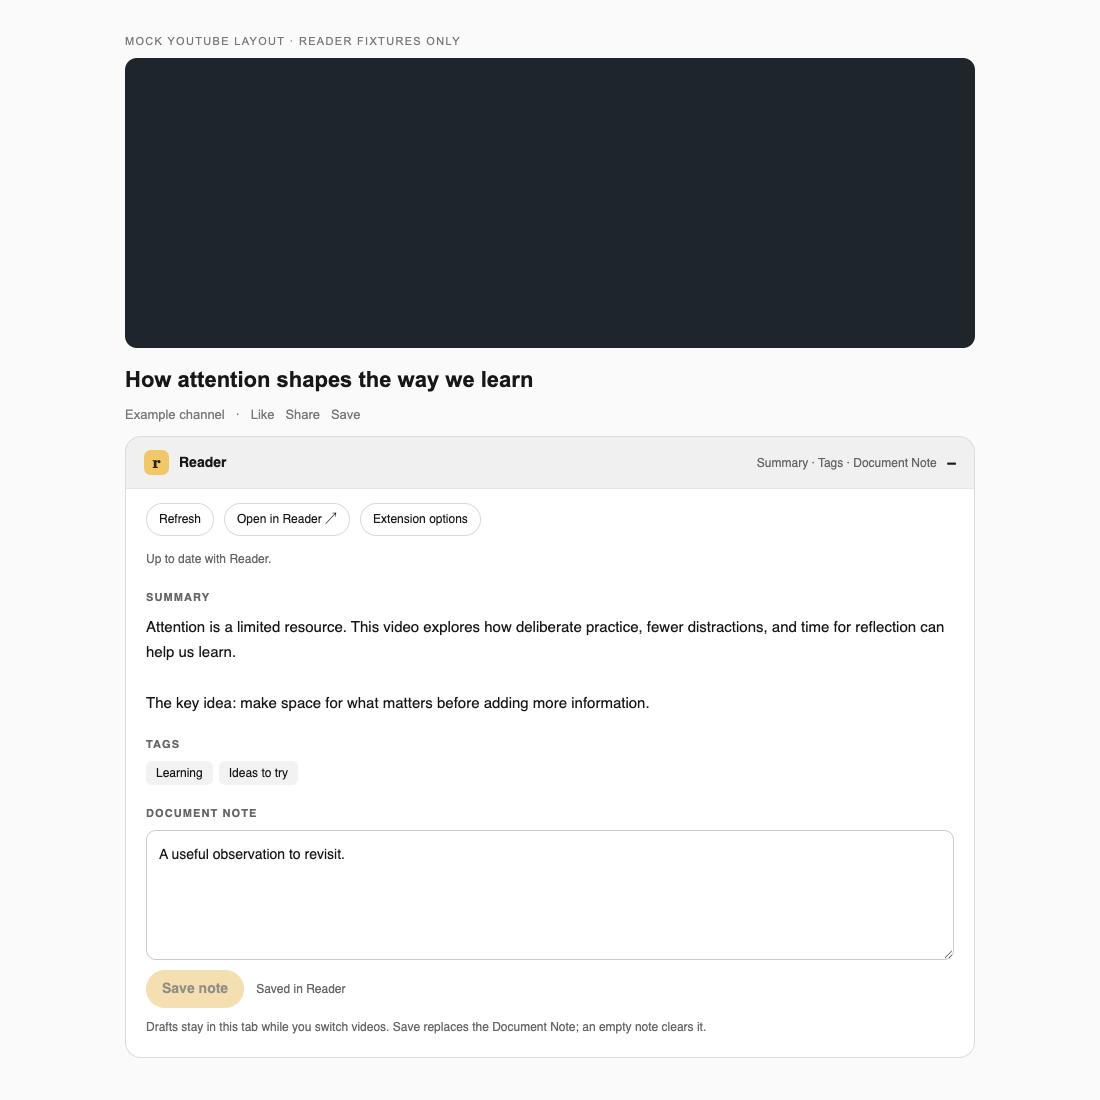
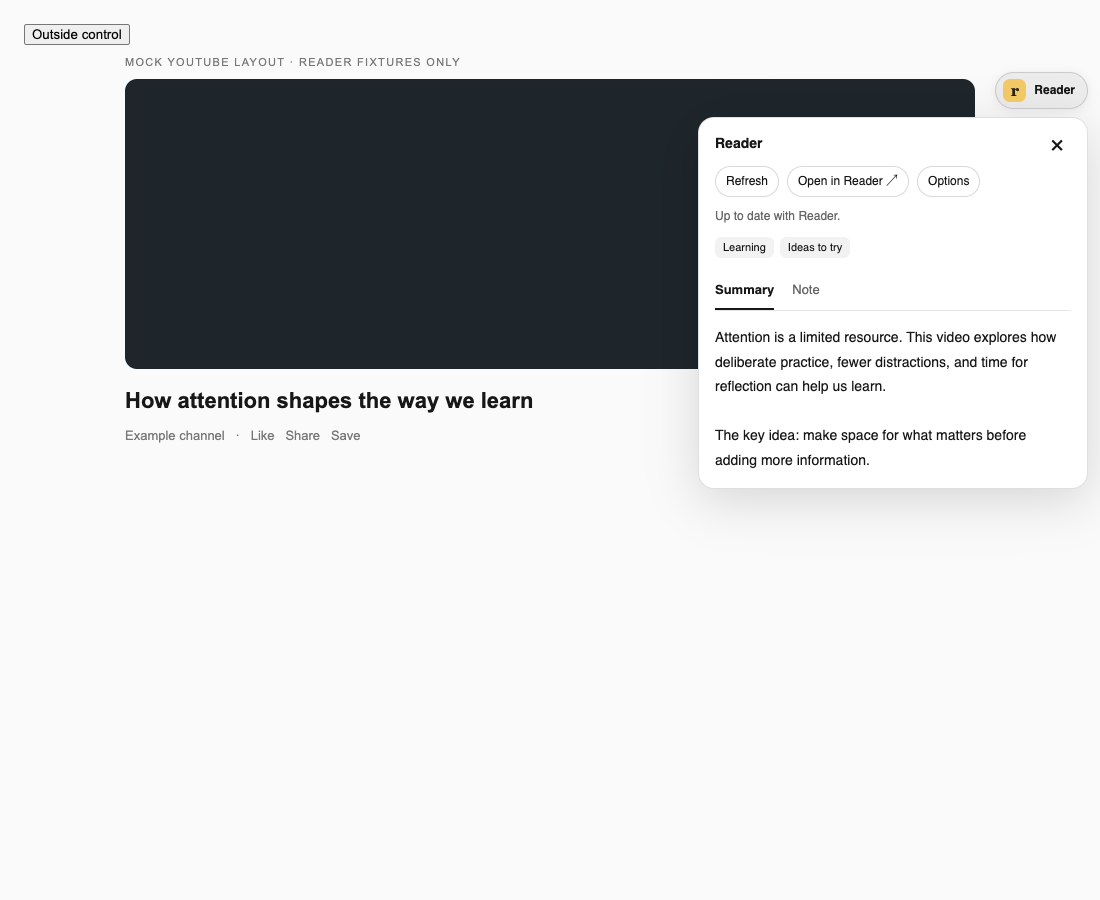
Show Reader in a compact top-right popover

diff --git a/reader-panel.js b/reader-panel.js
@@ -10,7 +10,7 @@
   let open = false;
   let scheduled = false;
   const stateFor = (url) => {
-    if (!states.has(url)) states.set(url, { ...C.draft(), status: '', cursor: null, loaded: false });
+    if (!states.has(url)) states.set(url, { ...C.draft(), status: '', cursor: null, loaded: false, tab: 'summary' });
     return states.get(url);
   };
   const current = () => activeUrl && stateFor(activeUrl);
@@ -43,67 +43,91 @@
     if (parent) parent.append(node);
     return node;
   };
+  const dismiss = (restoreFocus = false) => {
+    open = false;
+    render();
+    if (restoreFocus && host?.isConnected) view.toggle.focus();
+  };
+  const selectTab = (tab, focus = false) => {
+    const s = current();
+    if (!s) return;
+    s.tab = tab;
+    render();
+    if (focus) (tab === 'summary' ? view.summaryTab : view.noteTab).focus();
+  };
   const createView = () => {
     host = document.createElement('div');
     host.id = 'mvs-reader-panel';
     root = host.attachShadow({ mode: 'closed' });
     const style = element('style', '', root);
     style.textContent = `
-      :host{display:block;margin:14px 0;color:var(--yt-spec-text-primary,#171717);font:14px/1.55 "YouTube Sans",Roboto,sans-serif;color-scheme:light dark}
-      *{box-sizing:border-box} [hidden]{display:none!important}
-      button,a,textarea{font:inherit}button,a{color:inherit}button{cursor:pointer}
-      .shell{border:1px solid var(--yt-spec-10-percent-layer,rgba(128,128,128,.28));border-radius:16px;overflow:hidden;background:var(--yt-spec-base-background,#fff)}
-      .toggle{border:0;background:transparent;display:flex;align-items:center;gap:10px;width:100%;padding:13px 18px;text-align:left;font-weight:600}
-      .mark{display:grid;place-items:center;width:25px;height:25px;border-radius:7px;background:#f2c867;color:#292219;font:bold 16px Georgia,serif}
-      .sub{font-weight:400;color:var(--yt-spec-text-secondary,#666);font-size:12px;margin-left:auto}.chevron{font-size:16px}
-      .body{padding:0 20px 20px;border-top:1px solid var(--yt-spec-10-percent-layer,rgba(128,128,128,.2))}
-      .toolbar{display:flex;gap:10px;align-items:center;flex-wrap:wrap;padding:14px 0 4px}
-      button.small,a{padding:6px 12px;border:1px solid var(--yt-spec-10-percent-layer,rgba(128,128,128,.3));border-radius:20px;background:transparent;text-decoration:none;font-size:12px}
-      button:hover,a:hover{background:var(--yt-spec-badge-chip-background,rgba(128,128,128,.12))}button:disabled{opacity:.5;cursor:default}
-      button:focus-visible,a:focus-visible,textarea:focus-visible{outline:2px solid #b38523;outline-offset:3px}
-      h3,label{display:block;font-size:11px;letter-spacing:.1em;text-transform:uppercase;font-weight:650;margin:20px 0 8px;color:var(--yt-spec-text-secondary,#666)}
-      .summary{white-space:pre-wrap;overflow-wrap:anywhere;font-size:15px;line-height:1.7;max-height:380px;overflow:auto}
-      .tags{display:flex;gap:6px;flex-wrap:wrap}.tag{font-size:12px;padding:3px 10px;border-radius:6px;background:var(--yt-spec-badge-chip-background,rgba(128,128,128,.1));overflow-wrap:anywhere;max-width:100%}
-      textarea{display:block;resize:vertical;width:100%;min-height:130px;padding:12px;border-radius:10px;border:1px solid var(--yt-spec-10-percent-layer,rgba(128,128,128,.4));background:transparent;color:inherit;line-height:1.6}
-      .footer{display:flex;gap:12px;align-items:center;flex-wrap:wrap;margin-top:10px}.save{border:0;border-radius:20px;background:#e9be61;color:#211b10;font-weight:600;padding:8px 16px}
-      .muted,.status,.hint{font-size:12px;color:var(--yt-spec-text-secondary,#666)}.status{margin:10px 0;overflow-wrap:anywhere}
-      .conflict{border-left:3px solid #c59b42;padding:8px 12px;margin-top:12px}.remote{white-space:pre-wrap;max-height:150px;overflow:auto;overflow-wrap:anywhere}.hint{margin:10px 0 0}
-      @media(max-width:600px){.sub{display:none}.body{padding:0 14px 16px}.summary{font-size:14px}}
+      :host{--reader-top:clamp(12px,calc(100dvh - 180px),72px);position:fixed;top:var(--reader-top);right:max(12px,env(safe-area-inset-right));width:min(390px,calc(100vw - 24px));z-index:2147483000;pointer-events:none;color:var(--yt-spec-text-primary,#171717);font:14px/1.55 "YouTube Sans",Roboto,sans-serif;color-scheme:light dark}
+      *{box-sizing:border-box}[hidden]{display:none!important}button,a,textarea{font:inherit}button,a{color:inherit}button{cursor:pointer}
+      .launch-row{display:flex;justify-content:flex-end}.toggle{pointer-events:auto;display:flex;align-items:center;gap:8px;border:1px solid var(--yt-spec-10-percent-layer,rgba(128,128,128,.3));border-radius:20px;padding:6px 12px 6px 7px;font-size:12px;font-weight:600;background:var(--yt-spec-base-background,#fff);box-shadow:0 2px 10px #00000012}
+      .mark{display:grid;place-items:center;width:23px;height:23px;border-radius:7px;background:#f2c867;color:#292219;font:bold 16px Georgia,serif}.draft-dot{width:6px;height:6px;border-radius:50%;background:#c5912e}.body{pointer-events:auto;margin-top:8px;max-height:min(680px,calc(100dvh - var(--reader-top) - 56px));overflow:auto;overscroll-behavior:contain;border:1px solid var(--yt-spec-10-percent-layer,rgba(128,128,128,.25));border-radius:16px;background:var(--yt-spec-base-background,#fff);box-shadow:0 12px 48px #00000024}
+      .heading{display:flex;align-items:center;justify-content:space-between;padding:12px 16px 8px;position:sticky;top:0;background:var(--yt-spec-base-background,#fff);z-index:1}.heading h2{font-size:14px;margin:0;font-weight:650}.close{border:0;background:transparent;border-radius:50%;width:28px;height:28px;font-size:22px;line-height:1}
+      .content{padding:0 16px 16px}.toolbar{display:flex;gap:8px;align-items:center;flex-wrap:wrap;margin-bottom:10px}button.small,a{padding:5px 10px;border:1px solid var(--yt-spec-10-percent-layer,rgba(128,128,128,.3));border-radius:18px;background:transparent;text-decoration:none;font-size:12px}
+      button:hover,a:hover{background:var(--yt-spec-badge-chip-background,rgba(128,128,128,.12))}button:disabled{opacity:.5;cursor:default}button:focus-visible,a:focus-visible,textarea:focus-visible{outline:2px solid #b38523;outline-offset:2px}
+      .tabs{display:flex;gap:18px;border-bottom:1px solid var(--yt-spec-10-percent-layer,rgba(128,128,128,.2));margin:14px 0}.tab{position:relative;padding:8px 0;background:transparent;border:0;border-bottom:2px solid transparent;font-size:13px;color:var(--yt-spec-text-secondary,#666)}.tab[aria-selected="true"]{color:var(--yt-spec-text-primary,#171717);border-bottom-color:currentColor;font-weight:600}.tab .draft-dot{display:inline-block;vertical-align:middle;margin-left:5px}
+      .summary{white-space:pre-wrap;overflow-wrap:anywhere;font-size:14px;line-height:1.75}.tags{display:flex;gap:6px;flex-wrap:wrap}.tag{font-size:11px;padding:2px 8px;border-radius:6px;background:var(--yt-spec-badge-chip-background,rgba(128,128,128,.1));overflow-wrap:anywhere;max-width:100%}
+      label{display:block;font-size:11px;letter-spacing:.08em;text-transform:uppercase;font-weight:650;margin:0 0 8px;color:var(--yt-spec-text-secondary,#666)}textarea{display:block;resize:vertical;width:100%;min-height:160px;max-height:320px;padding:11px;border-radius:10px;border:1px solid var(--yt-spec-10-percent-layer,rgba(128,128,128,.4));background:transparent;color:inherit;line-height:1.6}
+      .footer{display:flex;gap:10px;align-items:center;flex-wrap:wrap;margin-top:10px}.save{border:0;border-radius:20px;background:#e9be61;color:#211b10;font-weight:600;padding:7px 14px}.muted,.status,.hint{font-size:12px;color:var(--yt-spec-text-secondary,#666)}.status{margin:8px 0 12px;overflow-wrap:anywhere}.hint{font-size:11px;margin:12px 0 0;line-height:1.5}
+      .conflict{border-left:3px solid #c59b42;padding:8px 10px;margin-top:12px;font-size:12px}.remote{white-space:pre-wrap;max-height:150px;overflow:auto;overflow-wrap:anywhere;margin-bottom:8px}.conflict button{margin:4px 3px 0 0}
+      @media(max-width:420px){.content{padding:0 13px 14px}.heading{padding:10px 13px 6px}}
     `;
-    const shell = element('section', '', root, { class: 'shell', 'aria-label': 'Reader' });
-    const toggle = element('button', '', shell, { class: 'toggle', type: 'button', 'aria-expanded': 'false', 'aria-controls': 'reader-body' });
+    const row = element('div', '', root, { class: 'launch-row' });
+    const toggle = element('button', '', row, { class: 'toggle', type: 'button', 'aria-label': 'Open Reader', 'aria-haspopup': 'dialog', 'aria-expanded': 'false', 'aria-controls': 'reader-body' });
     element('span', 'r', toggle, { class: 'mark', 'aria-hidden': 'true' });
     element('span', 'Reader', toggle);
-    const subtitle = element('span', 'Summary · Tags · Document Note', toggle, { class: 'sub' });
-    const chevron = element('span', '+', toggle, { class: 'chevron', 'aria-hidden': 'true' });
-    const body = element('div', '', shell, { class: 'body', id: 'reader-body' });
+    const dot = element('span', '', toggle, { class: 'draft-dot', 'aria-hidden': 'true' });
+    const body = element('section', '', root, { class: 'body', id: 'reader-body', role: 'dialog', 'aria-modal': 'false', 'aria-labelledby': 'reader-title' });
     body.hidden = true;
-    const toolbar = element('div', '', body, { class: 'toolbar' });
+    const heading = element('div', '', body, { class: 'heading' });
+    element('h2', 'Reader', heading, { id: 'reader-title' });
+    const close = element('button', '×', heading, { class: 'close', type: 'button', 'aria-label': 'Close Reader' });
+    const content = element('div', '', body, { class: 'content' });
+    const toolbar = element('div', '', content, { class: 'toolbar' });
     const refresh = element('button', 'Refresh', toolbar, { class: 'small', type: 'button' });
     const link = element('a', 'Open in Reader ↗', toolbar, { target: '_blank', rel: 'noopener noreferrer' });
-    const settings = element('button', 'Extension options', toolbar, { class: 'small', type: 'button' });
+    const settings = element('button', 'Options', toolbar, { class: 'small', type: 'button', 'aria-label': 'Extension options' });
     settings.addEventListener('click', () => void send({ type: 'open-options' }));
-    const status = element('p', '', body, { class: 'status', role: 'status', 'aria-live': 'polite' });
-    const next = element('button', 'Search next 100 videos', body, { class: 'small', type: 'button' });
-    const details = element('div', '', body);
-    element('h3', 'Summary', details);
-    const summary = element('div', '', details, { class: 'summary' });
-    element('h3', 'Tags', details);
-    const tags = element('div', '', details, { class: 'tags' });
-    element('label', 'Document Note', details, { for: 'reader-note' });
-    const note = element('textarea', '', details, { id: 'reader-note', placeholder: 'Add a thought about this video…' });
-    const conflict = element('div', '', details, { class: 'conflict' });
+    const status = element('p', '', content, { class: 'status', role: 'status', 'aria-live': 'polite' });
+    const next = element('button', 'Search next 100 videos', content, { class: 'small', type: 'button' });
+    const details = element('div', '', content);
+    const tags = element('div', '', details, { class: 'tags', 'aria-label': 'Reader tags' });
+    const tabs = element('div', '', details, { class: 'tabs', role: 'tablist', 'aria-label': 'Reader views' });
+    const summaryTab = element('button', 'Summary', tabs, { class: 'tab', id: 'reader-summary-tab', type: 'button', role: 'tab', 'aria-controls': 'reader-summary-view' });
+    const noteTab = element('button', 'Note', tabs, { class: 'tab', id: 'reader-note-tab', type: 'button', role: 'tab', 'aria-controls': 'reader-note-view' });
+    const noteDot = element('span', '', noteTab, { class: 'draft-dot', 'aria-hidden': 'true' });
+    const summaryView = element('div', '', details, { id: 'reader-summary-view', role: 'tabpanel', 'aria-labelledby': 'reader-summary-tab', tabindex: '0' });
+    const summary = element('div', '', summaryView, { class: 'summary' });
+    const noteView = element('div', '', details, { id: 'reader-note-view', role: 'tabpanel', 'aria-labelledby': 'reader-note-tab' });
+    element('label', 'Document Note', noteView, { for: 'reader-note' });
+    const note = element('textarea', '', noteView, { id: 'reader-note', placeholder: 'Add a thought about this video…' });
+    const conflict = element('div', '', noteView, { class: 'conflict' });
     element('p', 'Reader has a different note. Compare it below; your draft is kept above.', conflict);
     const remote = element('div', '', conflict, { class: 'remote' });
     const useRemote = element('button', 'Use Reader note', conflict, { class: 'small', type: 'button' });
     const keepDraft = element('button', 'Keep my draft for next save', conflict, { class: 'small', type: 'button' });
-    const footer = element('div', '', details, { class: 'footer' });
+    const footer = element('div', '', noteView, { class: 'footer' });
     const save = element('button', 'Save note', footer, { class: 'save', type: 'button' });
     const dirty = element('span', '', footer, { class: 'muted' });
-    element('p', 'Drafts stay in this tab while you switch videos. Save replaces the Document Note; an empty note clears it.', details, { class: 'hint' });
+    element('p', 'Drafts stay in this tab when dismissed or switching videos. Save replaces the Document Note; an empty note clears it.', noteView, { class: 'hint' });
     toggle.addEventListener('click', () => {
-      open = !open; render();
-      if (open && !current()?.loaded) void load();
+      if (open) { dismiss(); return; }
+      open = true; render();
+      // The tabs may be hidden while an unsaved video is being located.
+      (current()?.doc || current()?.dirty ? (current().tab === 'note' ? noteTab : summaryTab) : close).focus();
+      if (!current()?.loaded) void load();
+    });
+    close.addEventListener('click', () => dismiss(true));
+    summaryTab.addEventListener('click', () => selectTab('summary'));
+    noteTab.addEventListener('click', () => selectTab('note'));
+    tabs.addEventListener('keydown', event => {
+      if (!['ArrowLeft', 'ArrowRight', 'Home', 'End'].includes(event.key)) return;
+      event.preventDefault();
+      const tab = event.key === 'Home' ? 'summary' : event.key === 'End' ? 'note' : current()?.tab === 'note' ? 'summary' : 'note';
+      selectTab(tab, true);
     });
     refresh.addEventListener('click', () => void load());
     next.addEventListener('click', () => void load(true));
@@ -111,15 +135,24 @@
     save.addEventListener('click', () => void saveNote());
     useRemote.addEventListener('click', () => resolveConflict(false));
     keepDraft.addEventListener('click', () => resolveConflict(true));
-    view = { toggle, subtitle, chevron, body, refresh, link, status, next, details, summary, tags, note, conflict, remote, save, dirty };
+    view = { toggle, dot, body, refresh, link, status, next, details, summary, tags, summaryTab, noteTab, noteDot, summaryView, noteView, note, conflict, remote, save, dirty };
   };
   const render = () => {
     if (!view) return;
     const s = current();
     view.toggle.setAttribute('aria-expanded', String(open));
-    view.chevron.textContent = open ? '−' : '+';
+    view.toggle.setAttribute('aria-label', `Reader${s?.dirty ? ', unsaved draft' : ''}`);
+    view.toggle.title = s?.dirty ? 'Reader · Unsaved note draft' : 'Reader summary and note';
+    view.dot.hidden = !s?.dirty;
     view.body.hidden = !open;
-    view.subtitle.textContent = s?.dirty ? 'Unsaved draft' : 'Summary · Tags · Document Note';
+    view.summaryTab.setAttribute('aria-selected', String(s?.tab !== 'note'));
+    view.summaryTab.tabIndex = s?.tab === 'note' ? -1 : 0;
+    view.noteTab.setAttribute('aria-selected', String(s?.tab === 'note'));
+    view.noteTab.setAttribute('aria-label', s?.dirty ? 'Note, unsaved draft' : 'Note');
+    view.noteTab.tabIndex = s?.tab === 'note' ? 0 : -1;
+    view.noteDot.hidden = !s?.dirty;
+    view.summaryView.hidden = s?.tab === 'note';
+    view.noteView.hidden = s?.tab !== 'note';
     if (!s) return;
     view.status.textContent = s.status;
     view.refresh.disabled = s.busy;
@@ -187,16 +220,11 @@
   const sync = () => {
     scheduled = false;
     const url = C.canonical(location.href);
-    // Embeds and Shorts have no stable below-player details surface in this MVP.
     const supported = url && !/^\/(embed|shorts)\//.test(location.pathname);
-    if (url !== activeUrl) { activeUrl = url; open = false; render(); }
-    if (!enabled || !supported) { host?.remove(); return; }
+    if (url !== activeUrl) { activeUrl = url; dismiss(); }
+    if (!enabled || !supported || document.fullscreenElement) { dismiss(); host?.remove(); return; }
     if (!host) createView();
-    {
-      const anchor = document.querySelector('ytd-watch-metadata #above-the-fold') ||
-        document.querySelector('#primary-inner') || document.querySelector('#watch-below-the-player');
-      if (anchor && host.parentElement !== anchor) anchor.append(host);
-    }
+    if (host.parentElement !== document.documentElement) document.documentElement.append(host);
     render();
   };
   const schedule = () => {
@@ -215,6 +243,20 @@
   });
   new MutationObserver(schedule).observe(document.documentElement, { childList: true, subtree: true });
   document.addEventListener('yt-navigate-finish', schedule);
+  document.addEventListener('fullscreenchange', schedule);
+  document.addEventListener('pointerdown', event => {
+    if (open && !event.composedPath().includes(host)) dismiss();
+  }, true);
+  document.addEventListener('focusin', event => {
+    if (open && !event.composedPath().includes(host)) dismiss();
+  });
+  document.addEventListener('keydown', event => {
+    if (open && event.key === 'Escape') {
+      event.preventDefault();
+      event.stopPropagation();
+      dismiss(true);
+    }
+  }, true);
   window.addEventListener('popstate', schedule);
   window.addEventListener('beforeunload', event => {
     if ([...states.values()].some(s => s.dirty)) { event.preventDefault(); event.returnValue = ''; }

diff --git a/options.html b/options.html
@@ -699,7 +699,7 @@
         </div>
         <label class="toggle-item" for="show-reader-panel">
           <span><span class="setting-title">Reader panel on YouTube</span>
-          <span class="setting-hint">Show a collapsed panel below video details for summary, tags, and Document Note. Opens only when clicked.</span></span>
+          <span class="setting-hint">Show a compact top-right Reader launcher for summary, tags, and Document Note. Opens only when clicked.</span></span>
           <input class="toggle-input" id="show-reader-panel" type="checkbox">
         </label>
         <div class="hint">Get your token from <a href="https://readwise.io/access_token" target="_blank" rel="noreferrer">Readwise</a>.</div>

diff --git a/README.md b/README.md
@@ -60,11 +60,12 @@ The extension reads only that player's available renditions and matching post me
 
 ## Reader panel on YouTube
 
-In **Extension options → Reader**, enable **Reader panel on YouTube**. It defaults to off. On a YouTube watch/live page, click the collapsed **Reader** row below the video details to see its existing Reader summary, tags, and Document Note. The playback overlay and its one-click save work independently. No new permissions are required.
+In **Extension options → Reader**, enable **Reader panel on YouTube**. It defaults to off. On a YouTube watch/live page, click the compact **Reader** launcher at the top right to open a popover with **Summary** and **Note** views and shared tag chips. It shows the existing Reader summary and Document Note. The playback overlay and its one-click save work independently. No new permissions are required.
 
 - **Refresh** fetches the current Reader document. Missing summaries mean no summary has been returned yet; Reader may still be processing the video or automatic summaries may be disabled. This extension does not generate summaries or invoke Ghostreader.
+- Close with **Escape**, the close button, or an outside click. Keyboard users can use arrow keys/Home/End to switch views; Escape/Close returns focus to the launcher. The popover fits the viewport and does not move the page content.
 - **Save note** explicitly replaces the Document Note. Saving an empty note clears it. Tags are display-only. Reader content is shown as plain text, including any Markdown/HTML markup.
-- Unsaved drafts are retained per video in this tab through YouTube navigation, collapse, metadata remounts, refresh, and pending requests. Edits typed during a save remain unsaved after that save completes. Drafts are held in memory: copy or save them before a full page reload, tab close, browser crash, or extension reload. The tab requests the browser's leave-page warning when drafts are dirty; the browser controls whether that warning is shown.
+- Unsaved drafts are retained per video in this tab through YouTube navigation, dismissal, switching Summary/Note views, remounts, refresh, and pending requests. Edits typed during a save remain unsaved after that save completes. Drafts are held in memory: copy or save them before a full page reload, tab close, browser crash, or extension reload. The tab requests the browser's leave-page warning when drafts are dirty; the browser controls whether that warning is shown.
 - Every save first re-reads the captured Reader document, verifies its source video, and compares its note with the editing baseline. If it changed, compare the Reader note and choose **Use Reader note** or **Keep my draft for next save**, then save explicitly. Reader's public API has no atomic conditional update: another client can still change the note between this check and the PATCH. Concurrent saves through this extension are serialized.
 - Newly saved videos retain a canonical video URL → Reader document ID mapping. Existing/externally saved videos are matched by source URL in one page of up to 100 Reader `video` documents per explicit action. **Search next 100 videos** continues manually. There is no automatic full-library scan or save on navigation/panel open. Older videos can require multiple clicks; documents Reader classified outside `video` are found only if their ID was retained by this extension. Deleted/stale IDs are verified and discarded before discovery.
 - Panel reads are capped locally below Reader's list limit. HTTP 429 cooldowns honor `Retry-After` (at least one minute) and survive service-worker restarts; there are no automatic retries. A failed or timed-out note write may have reached Reader: the draft stays intact, and **Refresh** checks the actual note before another attempt.
@@ -73,7 +74,7 @@ In **Extension options → Reader**, enable **Reader panel on YouTube**. It defa
 
 The preview uses a mock YouTube layout and mock Reader data.
 
-The panel currently targets standard desktop/mobile watch and live pages. Shorts, embeds, and layouts without a stable video-details surface retain the existing save/playback controls. Summary polling, tag editing, transcript/highlights, and Ghostreader chat are outside this version.
+The panel currently targets standard desktop/mobile watch and live pages, and hides during fullscreen playback. Shorts and embeds retain the existing save/playback controls. Summary polling, tag editing, transcript/highlights, and Ghostreader chat are outside this version.
 
 ### Development checks
 
@@ -93,4 +94,4 @@ npx playwright install chromium
 node --test tests/reader-panel.browser.cjs
 ```
 
-An existing Playwright module/browser can be supplied with `PLAYWRIGHT_MODULE` and `PLAYWRIGHT_CHROMIUM_EXECUTABLE`. Browser checks cover SPA drafts, late fetch/save responses, external note conflicts, explicit clearing, inert remote HTML, metadata remounts, light/dark/mobile flow layout, and existing playback/one-click save. Fixture screenshots are written under `output/playwright/`. These checks do not validate YouTube's live DOM or Reader's live authenticated responses; a manual smoke test in a separate test profile is still needed before release.
+An existing Playwright module/browser can be supplied with `PLAYWRIGHT_MODULE` and `PLAYWRIGHT_CHROMIUM_EXECUTABLE`. Browser checks cover SPA drafts, late fetch/save responses, external note conflicts, explicit clearing, inert remote HTML, remounts, dismissal/focus/keyboard tabs, viewport bounds in light/dark/mobile/short windows, and existing playback/one-click save. Fixture screenshots are written under `output/playwright/`. These checks do not validate YouTube's live DOM or Reader's live authenticated responses; a manual smoke test in a separate test profile is still needed before release.
